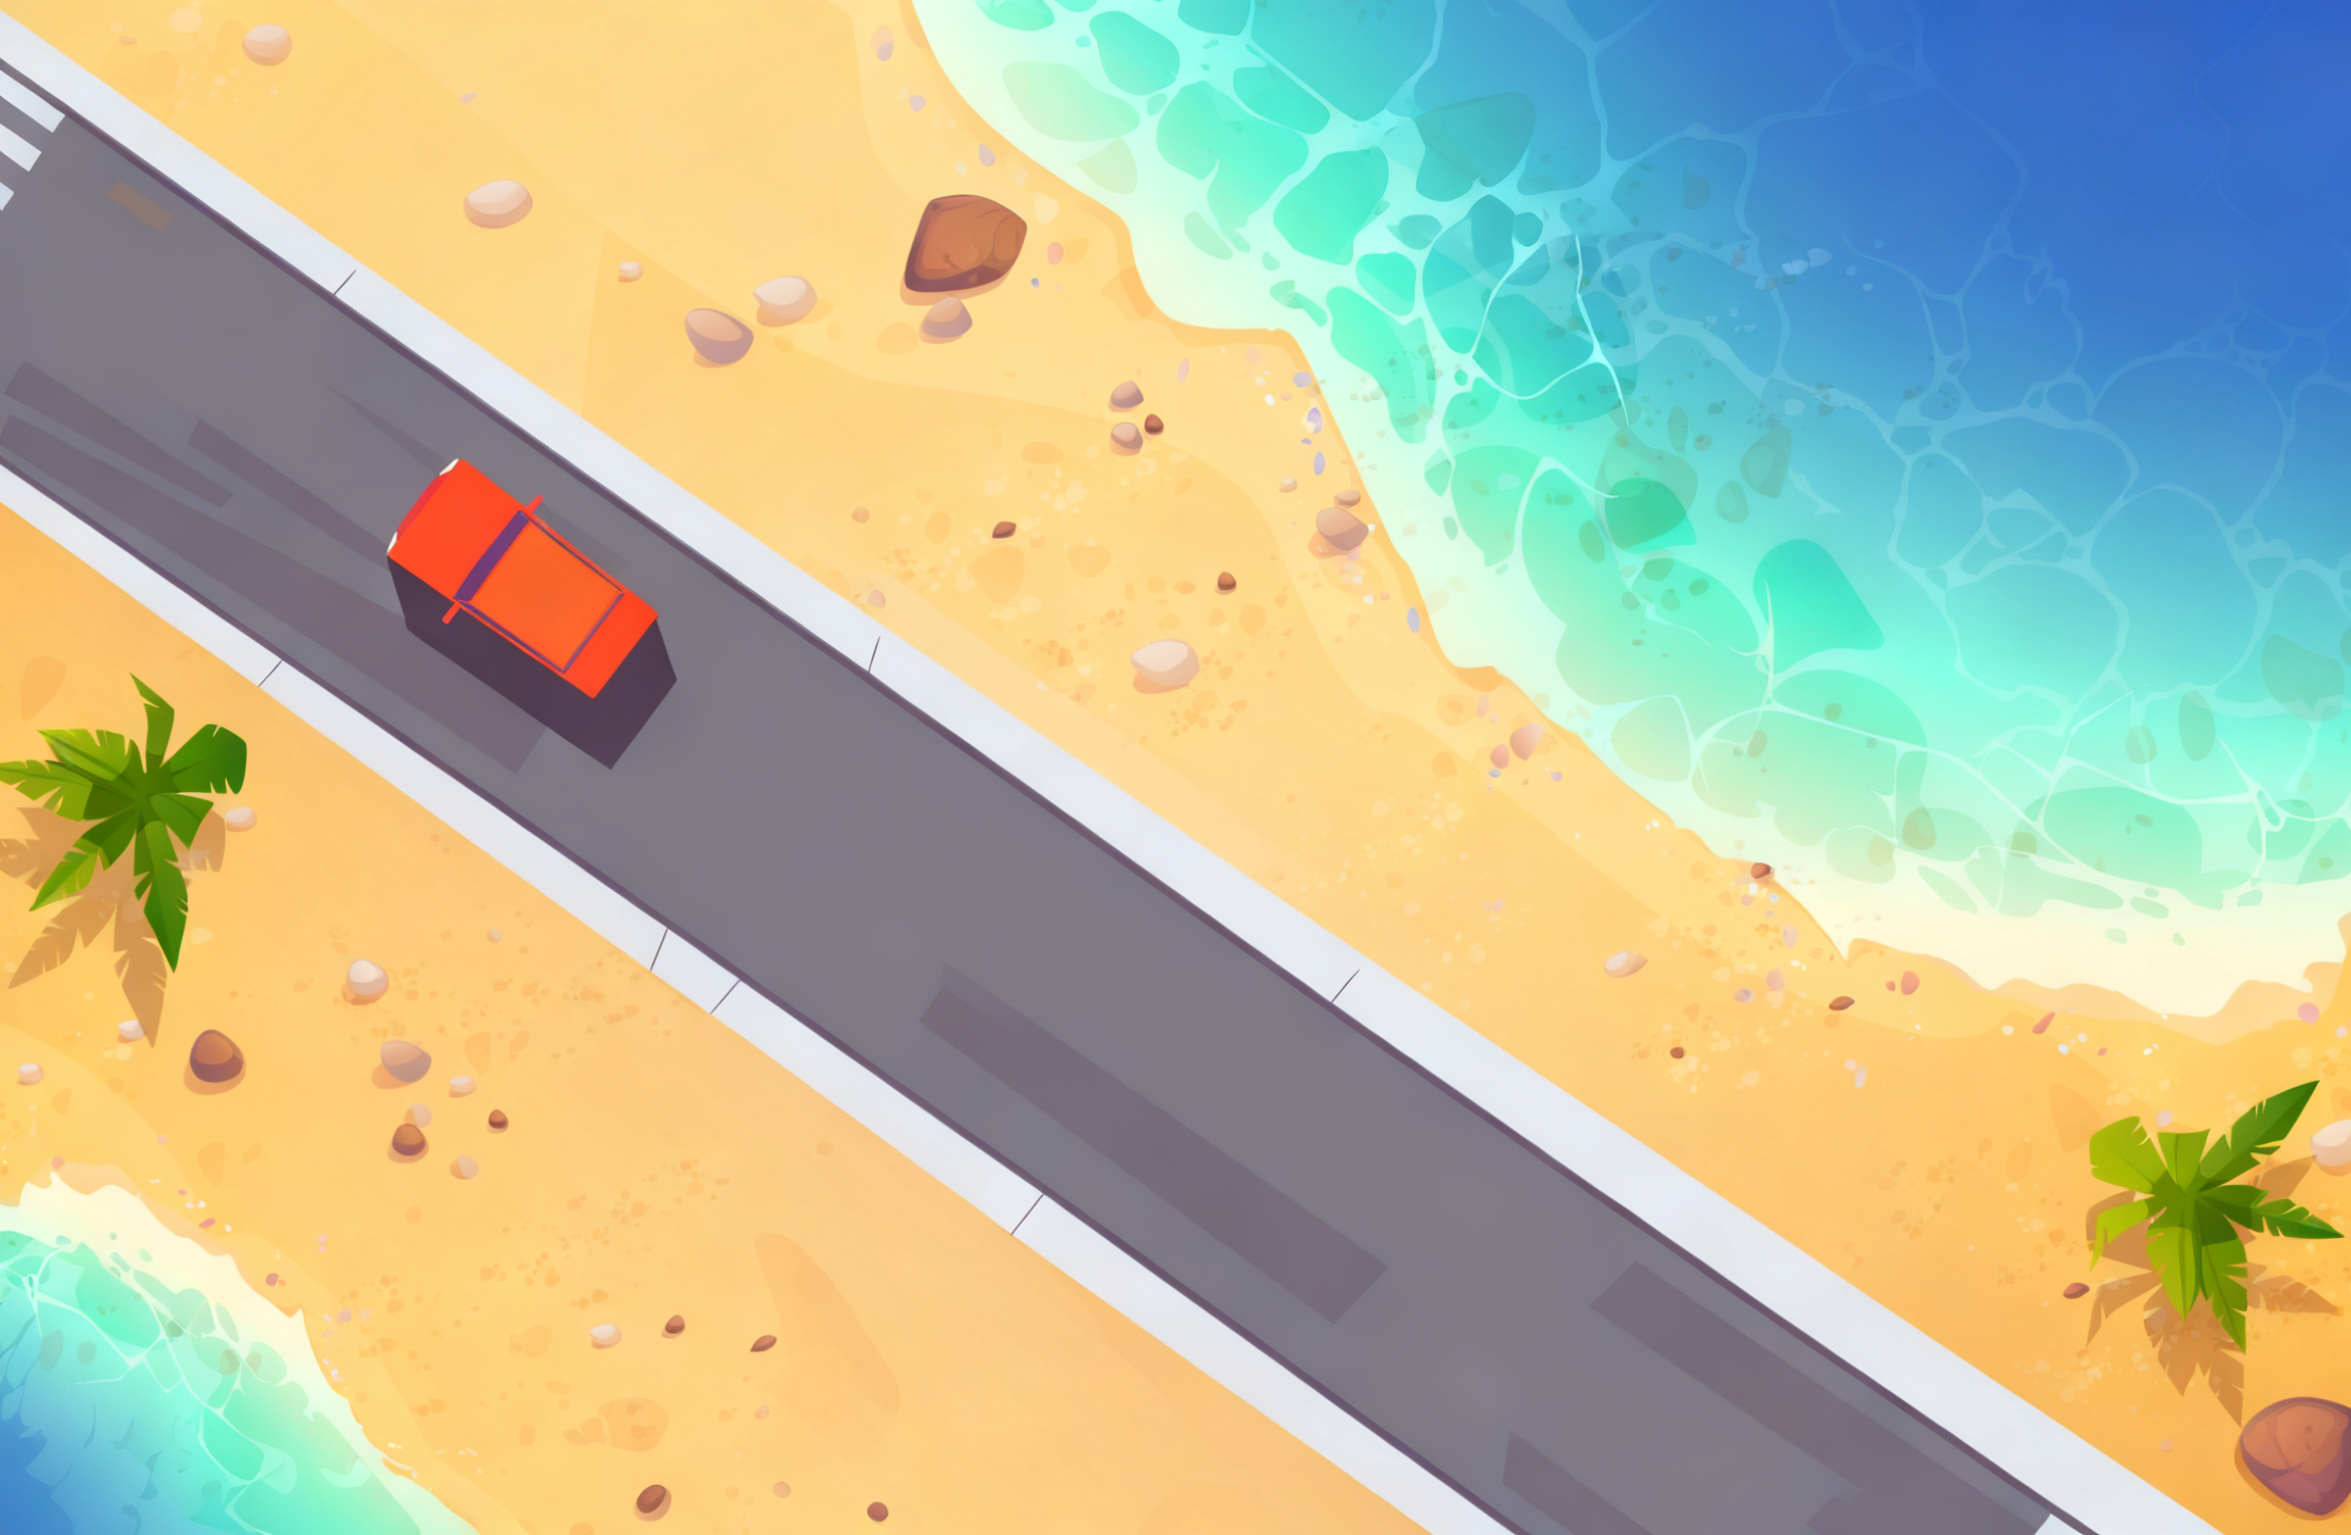
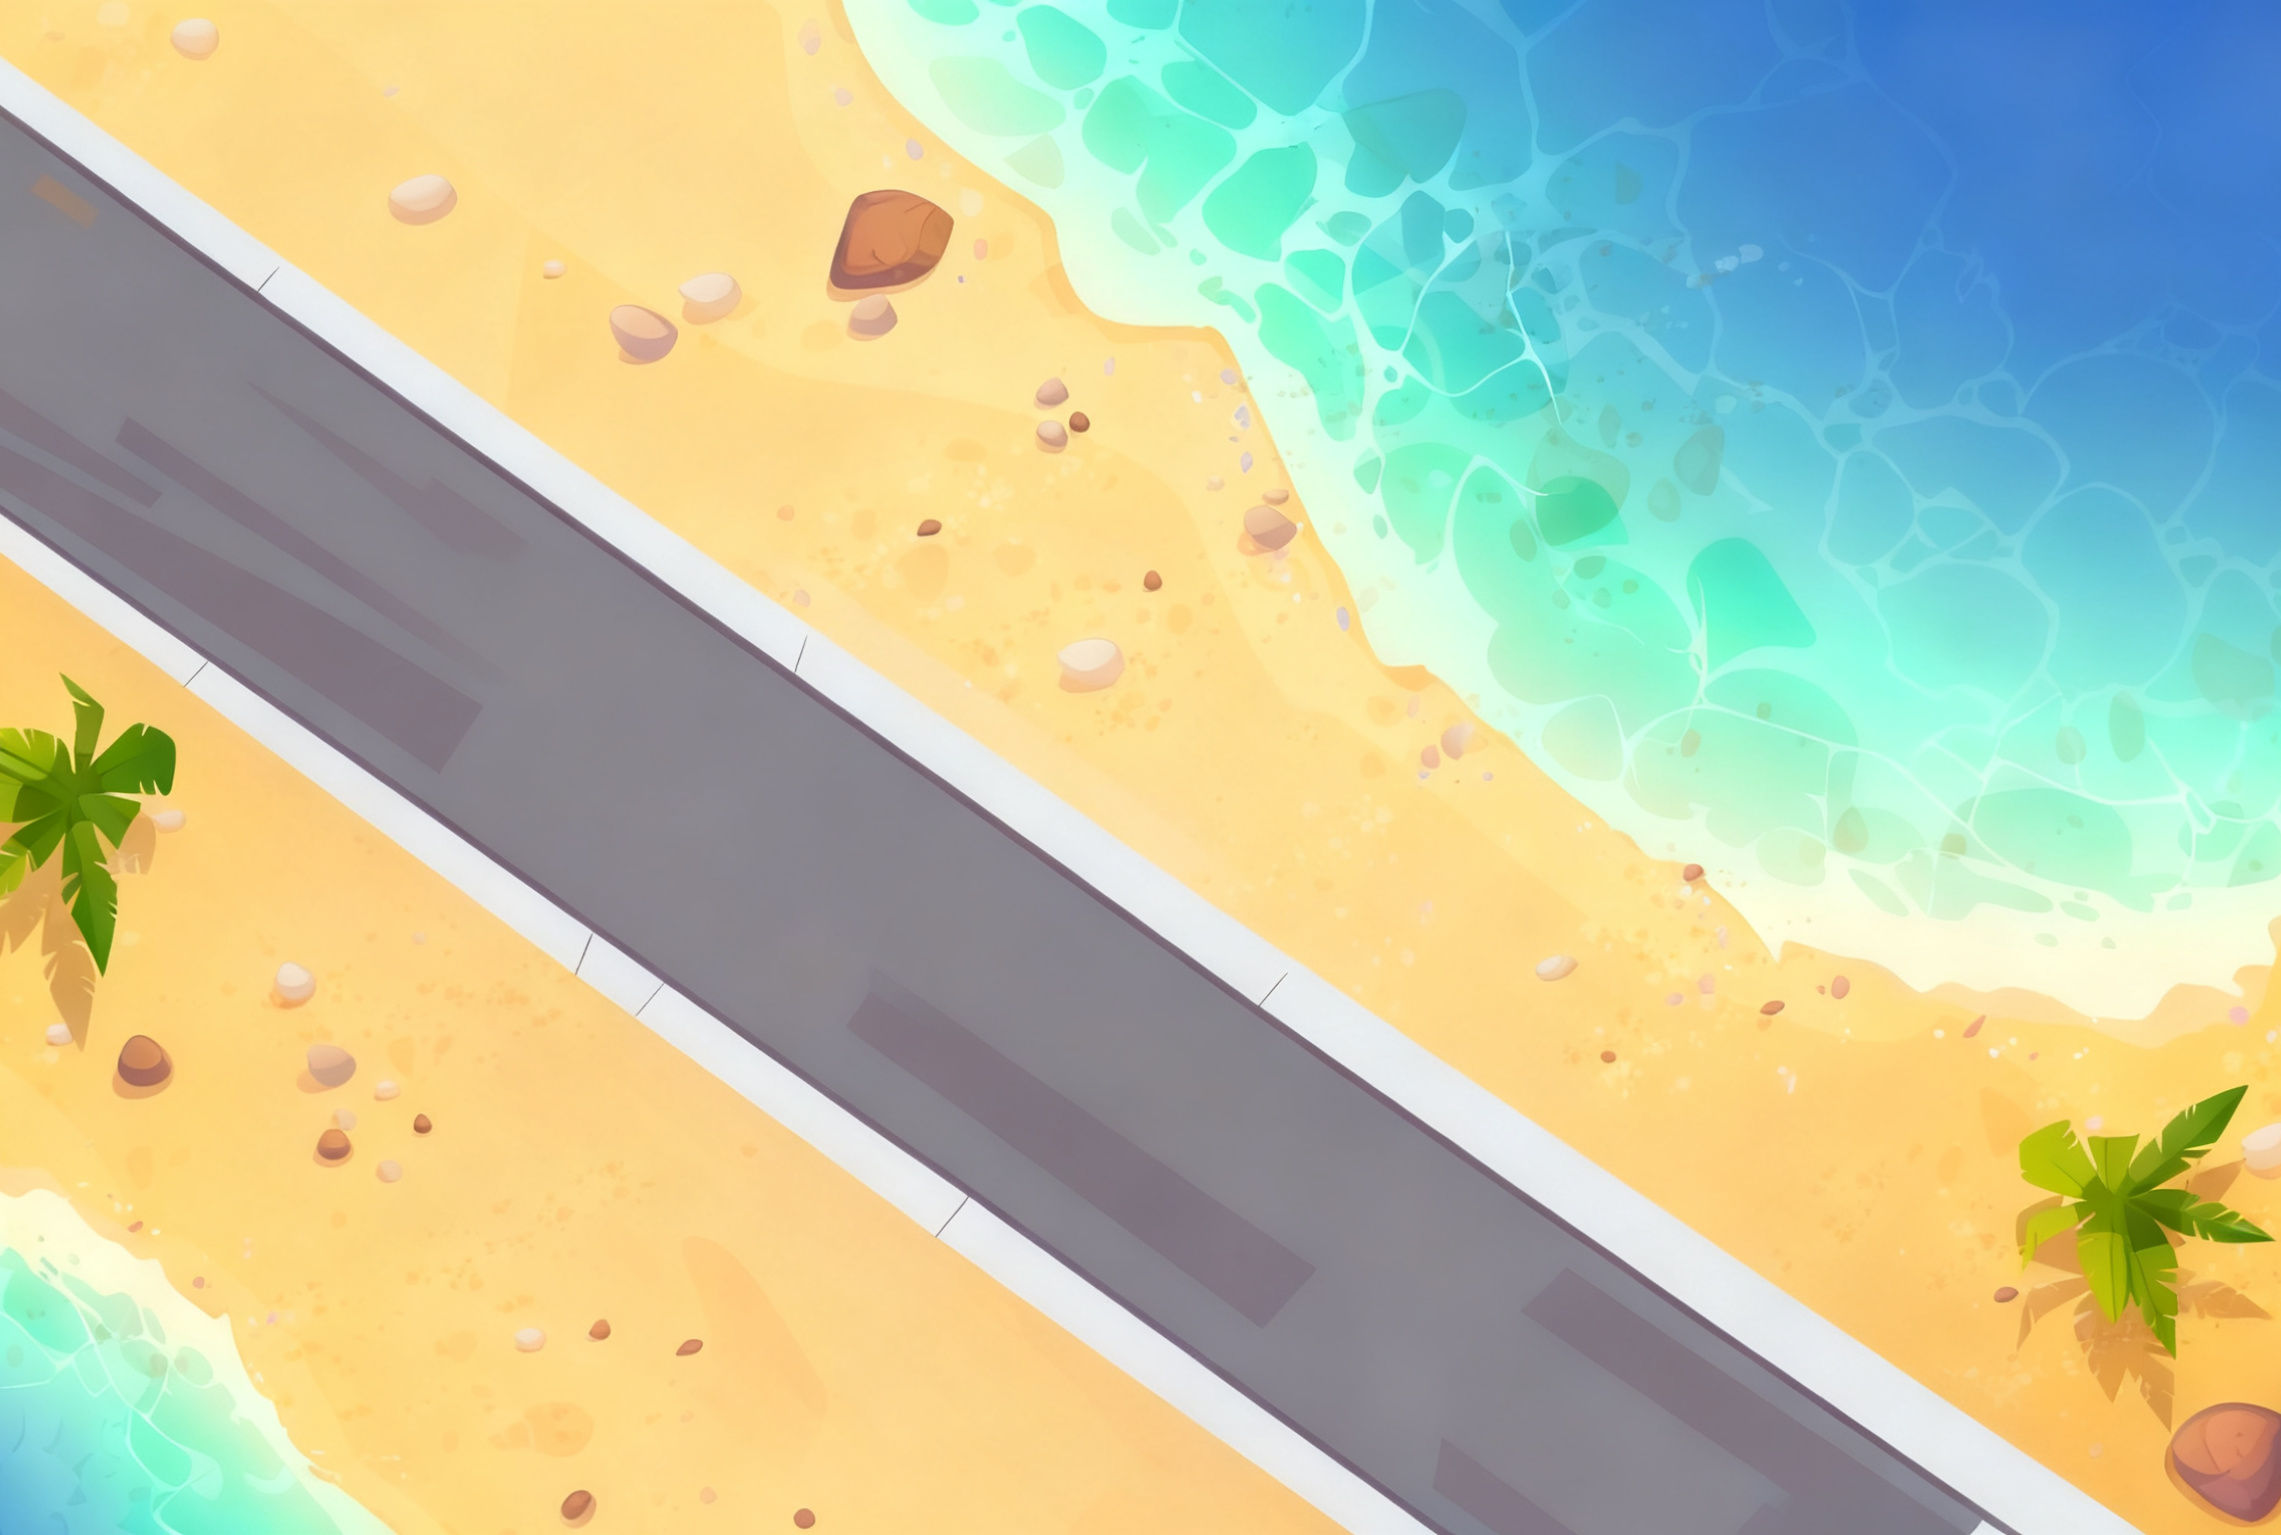
feat: Finalize TQ_SetupScreen styles, add new car asset, and update background image

diff --git a/src/app/components/TQ_SetupScreen.tsx b/src/app/components/TQ_SetupScreen.tsx
@@ -8,6 +8,7 @@ import {
 } from "@/app/constants/index_typequest";
 import { ChevronLeft } from "lucide-react";
 import Link from "next/link";
+import Image from "next/image";
 
 const TQ_SetupScreen = ({
   gameStatus,
@@ -32,7 +33,7 @@ const TQ_SetupScreen = ({
   return (
     <div 
       key={gameStatus} 
-      className="flex-center w-full h-dvh relative"
+      className="flex-center w-full h-dvh relative overflow-hidden"
       style={{
         backgroundImage: 'url(/Assets/TypeQuest/background.png)',
         backgroundSize: 'cover',
@@ -42,6 +43,46 @@ const TQ_SetupScreen = ({
     >
       {/* Background gradient overlay - darker on left, transparent on right */}
       <div className="absolute inset-0 bg-gradient-to-r from-black/50 via-black/30 to-transparent pointer-events-none z-0"></div>
+      
+      {/* Animated road lines - decorative scrolling effect at 35 degrees */}
+      <div 
+        className="absolute pointer-events-none z-[1] overflow-hidden" 
+        style={{
+          width: '150vw',
+          height: '4px',
+          top: '50%',
+          left: '50%',
+          transformOrigin: 'center center',
+          transform: 'translate(-64%, -36%) rotate(35deg)',
+        }}
+      >
+        <div 
+          className="w-full h-full animate-road-line" 
+          style={{
+            backgroundImage: 'repeating-linear-gradient(90deg, transparent 0px, transparent 50px, rgba(255, 255, 255, 0.95) 50px, rgba(255, 255, 255, 0.95) 100px)',
+            backgroundSize: '120px 100%',
+          }}
+        ></div>
+      </div>
+      
+      {/* Car positioned above the road line - behind text */}
+      <div 
+        className="absolute pointer-events-none z-[5]" 
+        style={{
+          top: '70%',
+          left: '30%',
+          transformOrigin: 'center center',
+          transform: 'translate(-33%, -67%) rotate(0deg)',
+        }}
+      >
+        <Image
+          src="/Assets/TypeQuest/car_setup.png"
+          alt="Setup Car"
+          width={1600}
+          height={800}
+          className="object-contain"
+        />
+      </div>
       
       {/* Content aligned to left */}
       <div className="flex flex-col items-start justify-start p-10 gap-8 relative z-10 max-w-3xl">
@@ -67,11 +108,12 @@ const TQ_SetupScreen = ({
 
         {/* Game Mode Selection */}
         <div className="flex flex-col gap-3 w-full max-w-md">
-          <p className="text-xl text-white font-semibold">Select game mode:</p>
+          <p className="text-2xl md:text-3xl text-white font-semibold">Select game mode:</p>
           <select
             value={gameMode}
             onChange={(e) => setGameMode(e.target.value as GameMode)}
-            className="bg-slate-900/60 backdrop-blur-sm border border-white/20 text-white text-xl p-4 rounded-lg w-full focus:outline-none focus:border-white/40 transition-all"
+            className="bg-transparent backdrop-blur-sm border border-white/30 text-white text-2xl p-4 rounded-lg w-full focus:outline-none focus:border-white/50 transition-all"
+            style={{ backgroundColor: 'transparent' }}
           >
             <option value="solo" className="bg-slate-900 text-white">Solo</option>
             <option value="multiplayer" className="bg-slate-900 text-white">Multiplayer</option>
@@ -80,11 +122,12 @@ const TQ_SetupScreen = ({
 
         {/* Grade Level Selection */}
         <div className="flex flex-col gap-3 w-full max-w-md">
-          <p className="text-xl text-white font-semibold">Grade Level:</p>
+          <p className="text-2xl md:text-3xl text-white font-semibold">Grade Level:</p>
           <select
             value={gradeLevel}
             onChange={(e) => setGradeLevel(e.target.value as GradeLevel)}
-            className="bg-slate-900/60 backdrop-blur-sm border border-white/20 text-white text-xl p-4 rounded-lg w-full focus:outline-none focus:border-white/40 transition-all"
+            className="bg-transparent backdrop-blur-sm border border-white/30 text-white text-2xl p-4 rounded-lg w-full focus:outline-none focus:border-white/50 transition-all"
+            style={{ backgroundColor: 'transparent' }}
           >
             <option value="K" className="bg-slate-900 text-white">Kindergarten</option>
             <option value="1-2" className="bg-slate-900 text-white">Grades 1-2</option>

diff --git a/src/app/globals.css b/src/app/globals.css
@@ -218,4 +218,18 @@ body {
   animation: shimmer-effect 2s ease-in-out infinite;
 }
 
+/* Road line scrolling animation - reversed */
+@keyframes road-line-scroll {
+  0% {
+    background-position: -120px 0;
+  }
+  100% {
+    background-position: 0 0;
+  }
+}
+
+.animate-road-line {
+  animation: road-line-scroll 0.2s linear infinite;
+}
+
 
